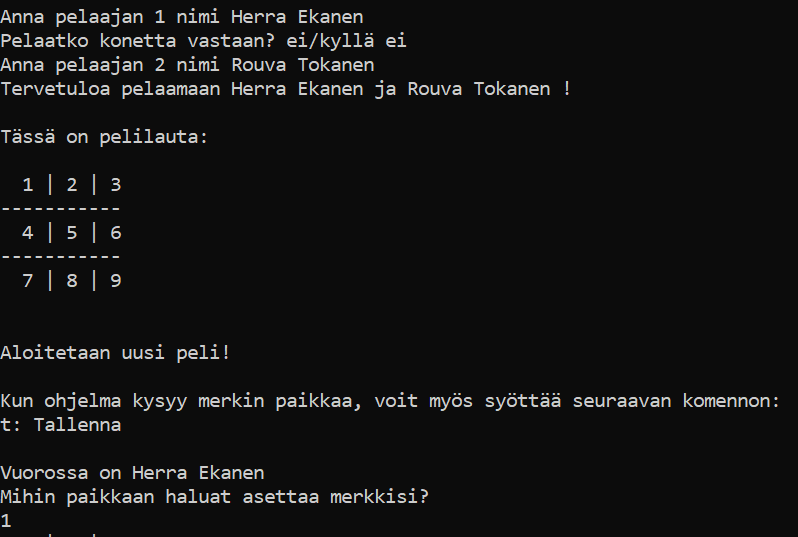
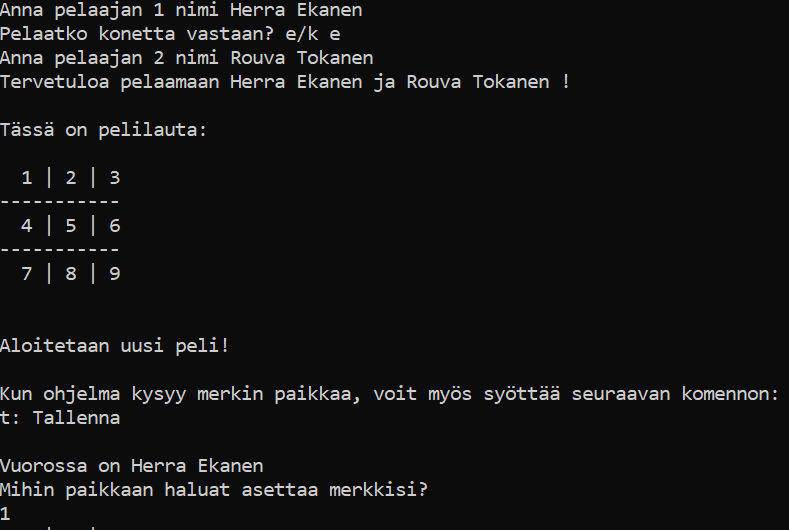
lisäyksiä

diff --git a/src/ui/tictactoe.py b/src/ui/tictactoe.py
@@ -33,10 +33,9 @@ class TicTacToe:
                 self.start_game()
                 started = True
             elif command == "j":
-                self.continue_game()
-                started = True
+                started = self.continue_game()
 
-    def continue_game(self) -> None:
+    def continue_game(self) -> bool:
         """Lukee tiedostosta tallennetun pelin tiedot ja aloittaa uuden pelin kyseisillä tiedoilla"""
 
         game_repository = GameRepository(" ", " ")
@@ -49,8 +48,10 @@ class TicTacToe:
             game = Game(name1, name2, turn, numberstring)
             print("\nJatketaan tallennettua peliä!\n")
             game.play_game()
+            return True
         else:
             print("Ei tallennettua peliä")
+            return False
 
     def start_game(self) -> None:
         """Aloittaa uuden pelin"""
@@ -64,10 +65,10 @@ class TicTacToe:
                 create_name = True
         other_player = False
         while other_player is False:
-            response = input("Pelaatko konetta vastaan? ei/kyllä ")
-            if response not in ("kyllä", "ei"):
-                print("Kirjoita joko ei tai kyllä")
-            if response == "ei":
+            response = input("Pelaatko konetta vastaan? e/k ")
+            if response not in ("k", "e"):
+                print("Kirjoita joko e (=ei) tai k (=kyllä)")
+            if response == "e":
                 create_name2 = False
                 while create_name2 is False:
                     name2 = input("Anna pelaajan 2 nimi ")
@@ -79,7 +80,7 @@ class TicTacToe:
                 print("Tervetuloa pelaamaan",
                       name1, "ja", name2, "!\n")
                 other_player = True
-            if response == "kyllä":
+            if response == "k":
                 name2 = "Kone"
                 other_player = True
         game = Game(name1, name2, "1", "123456789")
